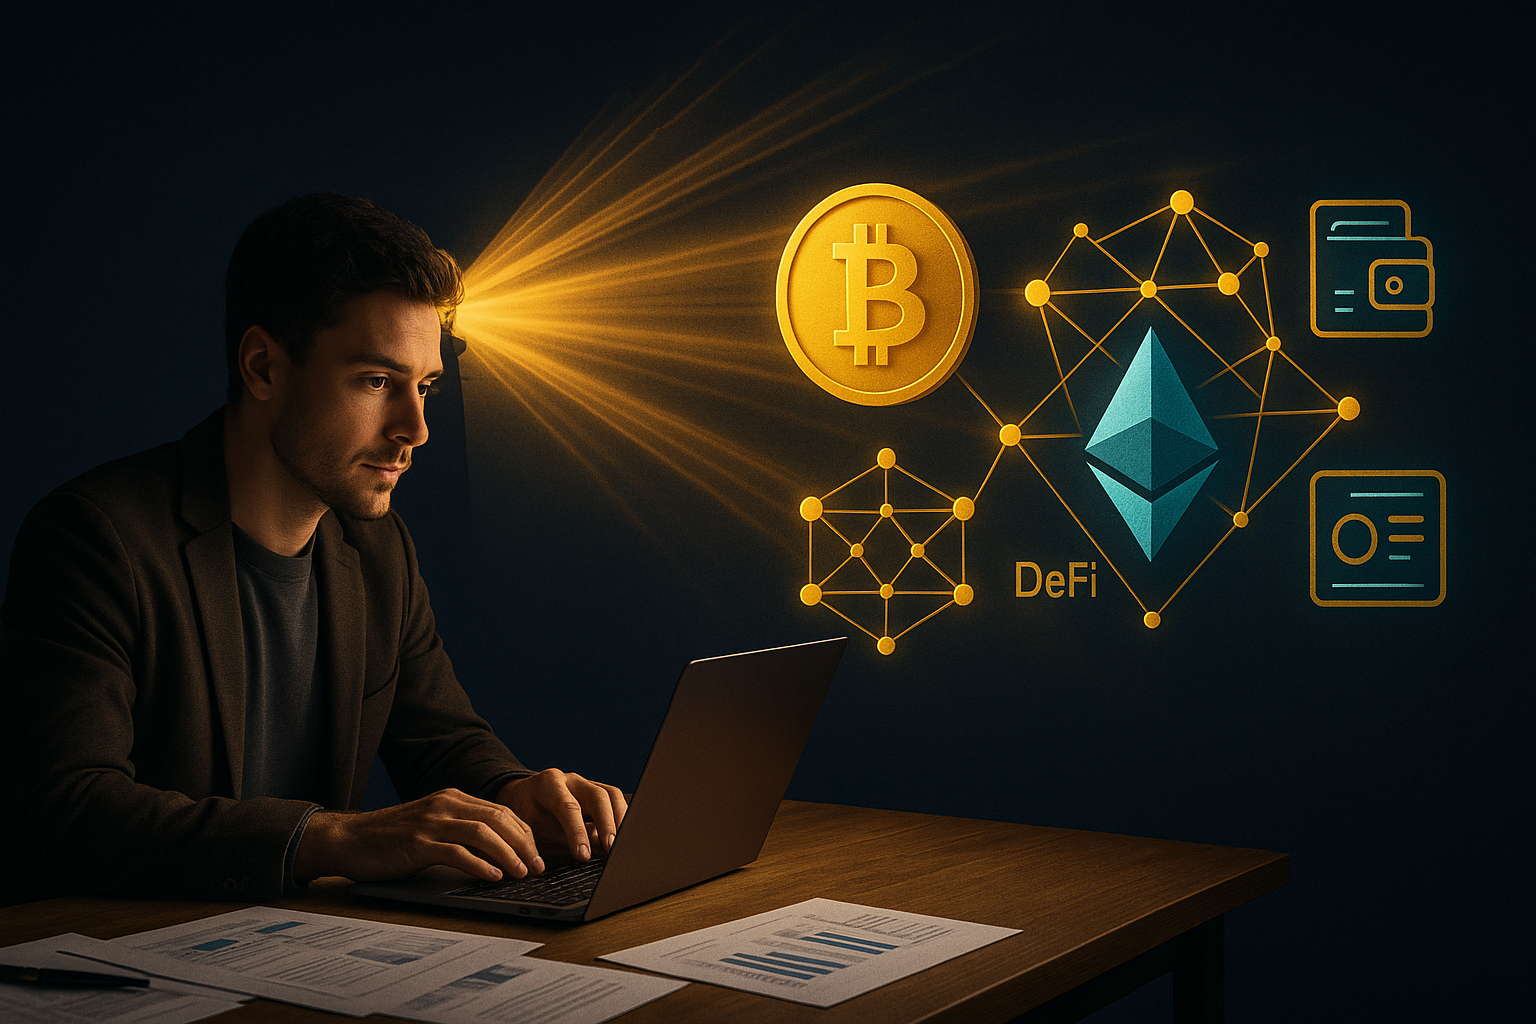
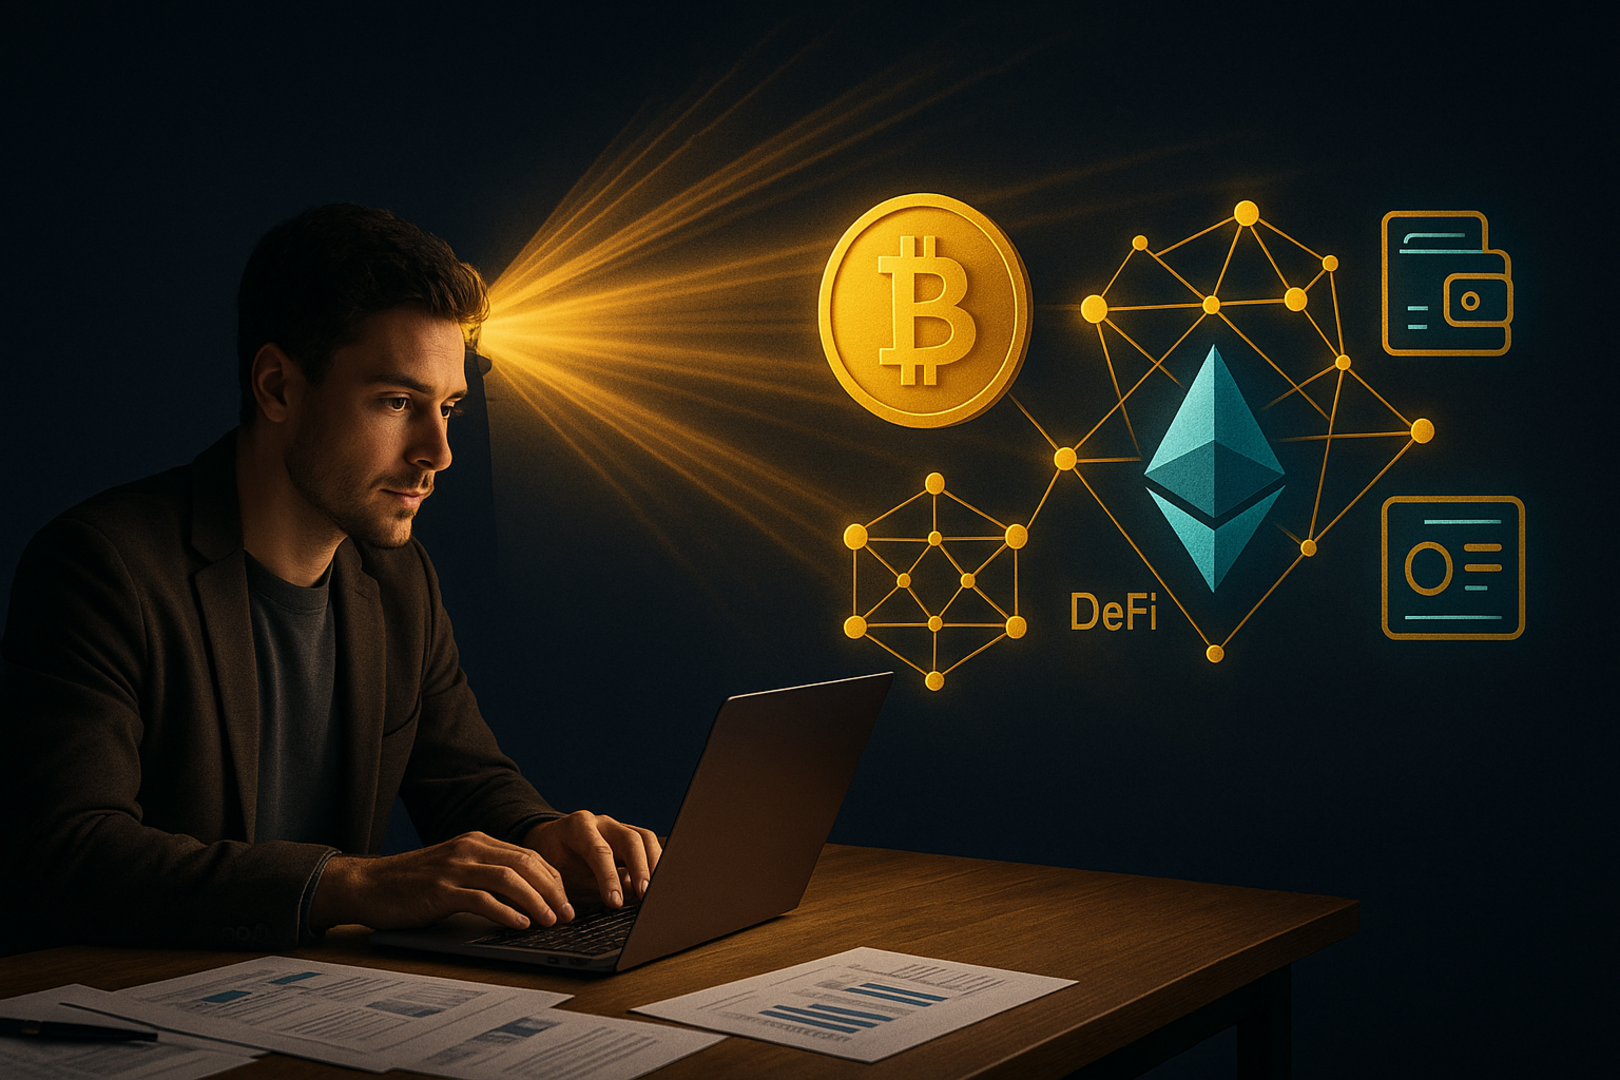
Optimize Business Suite hero image - convert to WebP (90KB vs 2.5MB)

diff --git a/business-suite.html b/business-suite.html
@@ -235,7 +235,7 @@
     </nav>
 
     <!-- Hero Section -->
-    <section class="bg-deep-navy text-white text-center py-20" style="background-image: url('images/business-suite-hero-final.png'); background-size: cover; background-position: center; background-repeat: no-repeat; position: relative;">
+    <section class="bg-deep-navy text-white text-center py-20" style="background-image: url('images/business-suite-hero-final.webp'); background-size: cover; background-position: center; background-repeat: no-repeat; position: relative;">
         <div style="position: absolute; top: 0; left: 0; right: 0; bottom: 0; background: rgba(26, 43, 61, 0.65); z-index: 0;"></div>
         <div class="container mx-auto px-4" style="position: relative; z-index: 1;">
             <h1 class="text-5xl md:text-6xl font-bold mb-4 playfair">Build Your Own Table. We'll Help You Set It.</h1>
